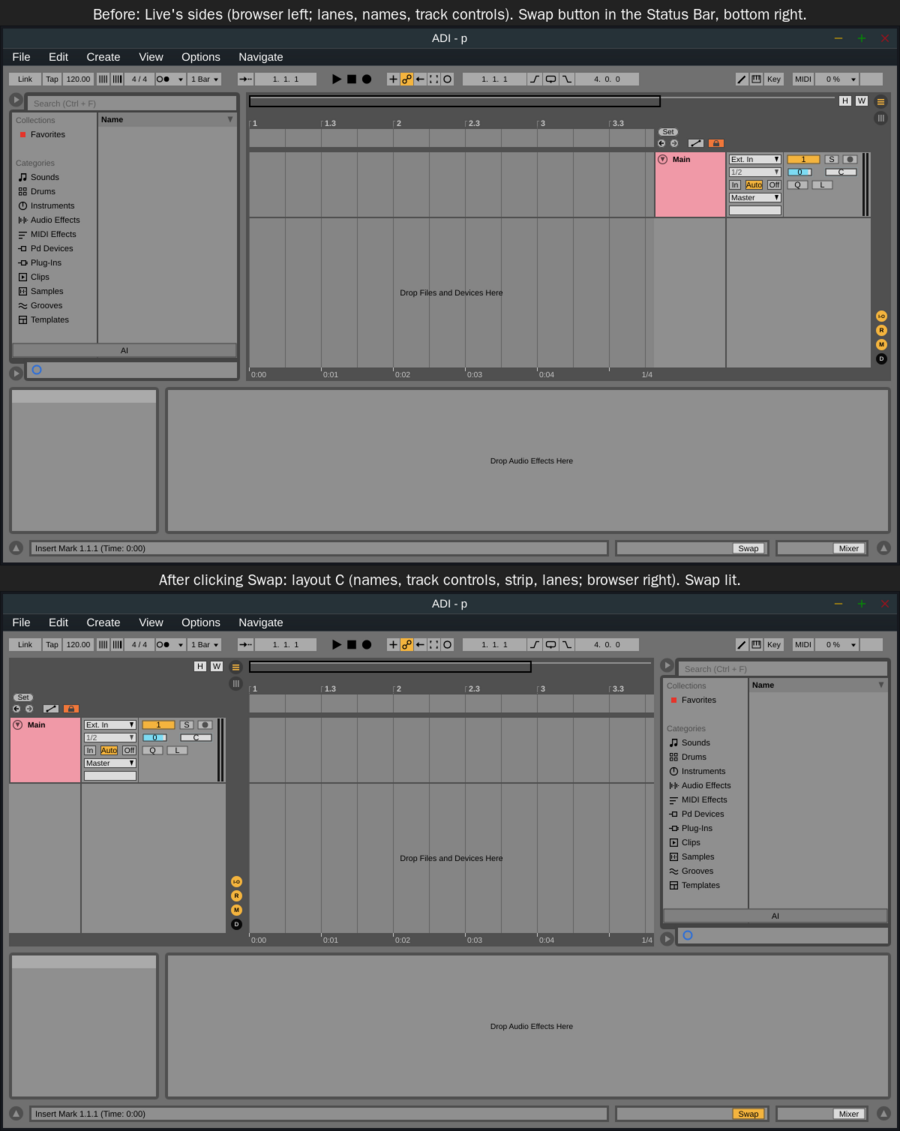
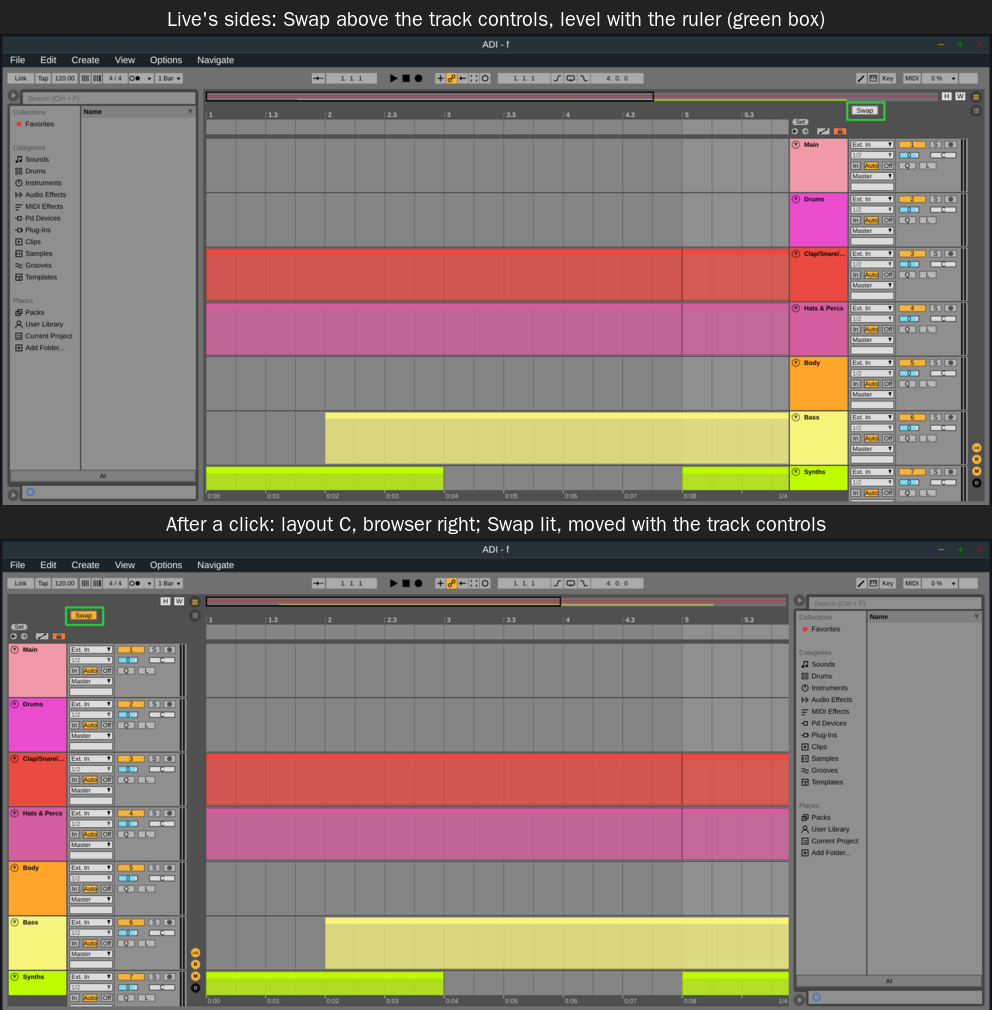
window: Swap moves to the band above the track controls
The director marked the empty band above the track controls, level with the
ruler, as the room for buttons such as the side swap (28 October 2026). The
button leaves the Status Bar, whose second field is where Live 12 puts the
Clip View toggle and its selector, and becomes the track controls' own: it
sits in their band and travels with them, lit while they are on the left.
The Mixer View has none.

It takes no keyboard focus; the View menu is its keyboard path. As a
focusable child at the panel's top it took the focus when a row holding it
was hidden on a scroll, and Next/Previous Neighbor stopped there: the
existing check caught it.

New check: the button lies in the band, below the Overview's row and above
the first row, inside the track controls, on either side. No golden moves:
the band's buttons and the Status Bar are masked as typography. The picture
of both states is replaced.

Claude-Session: https://claude.ai/code/session_013uiiLKvKvN8fsTi5qRHzxp

diff --git a/adi_daw/tests/test_ui_shell.cpp b/adi_daw/tests/test_ui_shell.cpp
@@ -416,24 +416,34 @@ int main(int argc, char **argv) {
         const auto at = a.arrangement.getPosition();
         const auto namesC = a.arrangement.headers.getBounds() + at;
         const auto lanesC = a.arrangement.canvas.getBounds() + at;
-        check(a.arrangement.namesFirst() && a.status.swapToggle.getToggleState() &&
+        check(a.arrangement.namesFirst() && a.mixer.swapToggle.getToggleState() &&
                   namesC.getRight() <= a.mixerArea().getX() &&
                   a.mixerArea().getRight() <= lanesC.getX() &&
                   lanesC.getRight() <= a.browserArea().getX() &&
                   a.arrangement.ruler.getX() + at.x == lanesC.getX(),
               "swapped: the names lead, then the track controls, then the lanes");
-        a.status.swapToggle.onClick();
+        // The director's place for it (2026-10-28): the empty band above the track controls,
+        // level with the ruler, travelling with them.
+        auto inBand = [&a] {
+            const auto r = a.mixer.swapToggle.getBounds() + a.mixer.getPosition();
+            return a.mixer.isVisible() && a.mixer.swapToggle.isVisible() && a.mixerArea().contains(r) &&
+                   r.getY() >= a.mixerArea().getY() + a.arrangement.overviewHeight() &&
+                   r.getBottom() <= a.mixerArea().getY() + a.arrangement.topHeight();
+        };
+        check(inBand() && a.mixerView.swapToggle.getParentComponent() == nullptr,
+              "Swap sits above the track controls, level with the ruler; the Mixer View has none");
+        a.mixer.swapToggle.onClick();
         a.frame();
         const auto atL = a.arrangement.getPosition();
         const auto namesL = a.arrangement.headers.getBounds() + atL;
         const auto lanesL = a.arrangement.canvas.getBounds() + atL;
-        check(!a.arrangement.namesFirst() && !a.status.swapToggle.getToggleState() &&
+        check(!a.arrangement.namesFirst() && !a.mixer.swapToggle.getToggleState() &&
                   a.state().panels.slots()[0].panel == Panel::Browser &&
                   a.browserArea().getRight() <= lanesL.getX() &&
                   lanesL.getRight() <= namesL.getX() &&
-                  namesL.getRight() <= a.mixerArea().getX(),
-              "the Status Bar's Swap puts Live's sides back: lanes, names, track controls");
-        a.status.swapToggle.onClick();
+                  namesL.getRight() <= a.mixerArea().getX() && inBand(),
+              "Swap puts Live's sides back: lanes, names, track controls; it moved with them");
+        a.mixer.swapToggle.onClick();
         a.frame();
         check(a.arrangement.namesFirst() && a.state().panels.slots()[0].panel == Panel::Mixer,
               "and swaps them again");

diff --git a/adi_daw/src/juce/ui_shell.cpp b/adi_daw/src/juce/ui_shell.cpp
@@ -359,12 +359,6 @@ StatusBar::StatusBar(AdiRootComponent &root) : root_(root) {
     mixerToggle.setTooltip("Shows or hides the Mixer. Ctrl/Cmd+Alt+M.");
     mixerToggle.setClickingTogglesState(false);
     mixerToggle.onClick = [this] { root_.command(AppCommands::ToggleMixerView); };
-    addAndMakeVisible(swapToggle);
-    swapToggle.setTitle("Swap Side Panels");
-    swapToggle.setTooltip("Swaps the browser and the track controls between the window's sides, for "
-                          "Bitwig and Cubase hands. Also in the View menu.");
-    swapToggle.setClickingTogglesState(false);
-    swapToggle.onClick = [this] { root_.command(AppCommands::SwapPanels); };
 }
 void StatusBar::resized() {
     // Live's Status Bar at 100 %: round corner buttons, the message field, a second
@@ -373,8 +367,6 @@ void StatusBar::resized() {
     infoToggle.setBounds(8, 9, 19, 19);
     detailToggle.setBounds(w - 27, 9, 19, 19);
     mixerToggle.setBounds(w - 86, 11, 44, 16);
-    // At the right of the second field, before the selected track's box.
-    swapToggle.setBounds(w - 220, 11, 44, 16);
 }
 void StatusBar::paint(juce::Graphics &g) {
     g.fillAll(look::frame);
@@ -683,7 +675,7 @@ void AdiRootComponent::resized() {
     mixerViewResizer.setBounds(mixerViewArea_.getX(), mixerViewArea_.getY() - 3,
                                mixerViewArea_.getWidth(), 6);
     status.mixerToggle.setToggleState(state_.mixerView, juce::dontSendNotification);
-    status.swapToggle.setToggleState(!browserLeft, juce::dontSendNotification);
+    mixer.swapToggle.setToggleState(!browserLeft, juce::dontSendNotification);
     arrangement.setBounds(centreX, top, centreW, mid - mixerViewArea_.getHeight());
     // The Overview runs from the lanes' left edge to Live's H and W buttons.
     const int overviewX = lanesX + ArrangementView::kLeftMargin;

diff --git a/adi_daw/src/juce/ui_mixer.cpp b/adi_daw/src/juce/ui_mixer.cpp
@@ -417,7 +417,20 @@ void MixerStrip::panMenu() {
     m.addItem(2, "Split Stereo Pan", false, false);
     m.showMenuAsync(juce::PopupMenu::Options{}.withTargetComponent(&pan));
 }
-MixerPanel::MixerPanel(AdiRootComponent &r, bool vertical) : root(r), vertical_(vertical) {}
+MixerPanel::MixerPanel(AdiRootComponent &r, bool vertical) : root(r), vertical_(vertical) {
+    if (vertical_)
+        return;
+    addAndMakeVisible(swapToggle);
+    swapToggle.setTitle("Swap Side Panels");
+    swapToggle.setTooltip("Swaps the browser and the track controls between the window's sides, for "
+                          "Bitwig and Cubase hands. Also in the View menu.");
+    swapToggle.setClickingTogglesState(false);
+    // A view command, reached from the keyboard through the View menu; it takes no focus, so a
+    // row hidden while it has the focus hands it to another row, never to this.
+    swapToggle.setWantsKeyboardFocus(false);
+    swapToggle.setMouseClickGrabsKeyboardFocus(false);
+    swapToggle.onClick = [this] { root.command(AppCommands::SwapPanels); };
+}
 bool MixerPanel::submit(const std::string &op, Payload payload, const char *label) {
     return root.submitEdit(op, std::move(payload), label);
 }
@@ -569,6 +582,10 @@ void MixerPanel::place() {
     for (std::size_t i = used; i < strips_.size(); ++i)
         if (!strips_[i]->dragging())
             strips_[i]->setVisible(false);
+    // In the ruler's band, below H and W; above any row scrolled partly into the band.
+    swapToggle.setBounds(6, root.arrangement.overviewHeight() + 6, 44, 16);
+    if (getIndexOfChildComponent(&swapToggle) != getNumChildComponents() - 1)
+        swapToggle.toFront(false);
 }
 void MixerPanel::frame(bool changed) noexcept {
     if (changed)

diff --git a/adi_daw/src/juce/ui_mixer.hpp b/adi_daw/src/juce/ui_mixer.hpp
@@ -112,6 +112,10 @@ class MixerPanel final : public juce::Component {
     // Auto Gain Stage, the one offline command (ADR-0195 d4, ADR-0203 d14): LUFS or RMS.
     std::function<bool(bool lufs)> autoGain;
     const std::vector<std::unique_ptr<MixerStrip>> &strips() const noexcept { return strips_; }
+    // ADI's addition (ADR-0080; the director, 28 October 2026): the side swap, in the band
+    // above the rows, so it travels with the track controls. Lit while they are on the left.
+    // The Mixer View has none.
+    juce::TextButton swapToggle{"Swap"};
 
   private:
     void place();

diff --git a/adi_daw/src/juce/ui_shell.hpp b/adi_daw/src/juce/ui_shell.hpp
@@ -127,9 +127,6 @@ class StatusBar final : public juce::Component {
     void paint(juce::Graphics &) override;
     void resized() override;
     juce::TextButton infoToggle{""}, detailToggle{""}, mixerToggle{"Mixer"};
-    // ADI's addition (ADR-0080; the director, 28 October 2026): the side swap, shown where the
-    // view toggles are, lit while the browser is on the right.
-    juce::TextButton swapToggle{"Swap"};
 
   private:
     AdiRootComponent &root_;

diff --git a/adi_daw/collab/window/master-reference-audit.md b/adi_daw/collab/window/master-reference-audit.md
@@ -24,7 +24,7 @@ MR § is the Master Reference's section.
 | Item | MR § | Window today |
 |---|---|---|
 | Live's single window: browser left, arrangement centre, track controls right, devices along the bottom, Info View bottom left, Status Bar, control bar on top | 1.1, 3 | Built |
-| Swap the browser and the track controls to the other side, instantly, for Bitwig and Cubase users | 1.1, 3.2 (ADR-0080) | Built (window/swap-panels): a Swap button in the Status Bar beside Mixer, lit while swapped, and View › "Swap side panels"; each panel keeps its own width. Swapped, the director's layout C (28 October): names, track controls, strip, lanes; the browser right |
+| Swap the browser and the track controls to the other side, instantly, for Bitwig and Cubase users | 1.1, 3.2 (ADR-0080) | Built (window/swap-panels): a Swap button in the band above the track controls, level with the ruler, travelling with them and lit while they are on the left (the director's green box, 28 October), and View › "Swap side panels"; each panel keeps its own width. Swapped, the director's layout C (28 October): names, track controls, strip, lanes; the browser right |
 | Hide one or both side panels to give the arrangement the whole width | 3.2 | Built (View › Hide/Show Browser, the track controls' toggle) |
 | The narrow-window rule: each panel keeps its minimum, a swap that cannot fit is refused with a message | 3.2 (ADR-0180 d4) | Built |
 | The mixer and the editors undock into their own windows, the same components reparented | 1.1, 3.2 (ADR-0063) | Partial: device panels and the analyser float in the floating host; the mixer and the editors do not undock |
@@ -177,7 +177,8 @@ MR § is the Master Reference's section.
 
 ## Questions for the director
 
-Ruled on 28 October 2026: 1, layout C (names, track controls, strip, lanes); 2, the Status Bar;
+Ruled on 28 October 2026: 1, layout C (names, track controls, strip, lanes); 2, the Status Bar, then
+moved the same day to the empty band above the track controls, which the director marked;
 3, yes, its picture first; 4, yes, the clip view and the note editor next.
 
 1. **The swap's track names.** After View › Swap side panels the track controls go left but the

diff --git a/adi_daw/collab/window/parity-7.2-shell.md b/adi_daw/collab/window/parity-7.2-shell.md
@@ -36,4 +36,4 @@ Status: **built** (in this PR, with a check in `tests/test_ui_shell.cpp`), **par
 | 22 | Toggle Full Screen Mode: F11 on Windows, Ctrl+Cmd+F on the Mac; the View menu's Full Screen | online §42.1 | The window fills the screen and back (`window/view-toggles`); a view whose window is not on the screen refuses and says why. Seen in the app under Xvfb on Linux | built |
 | 23 | Hide/Show Overview: Ctrl/Cmd+Alt+O, the View menu | online §42.1 | The Overview's row goes, the ruler and the lanes move up, and the track controls' rows stay level with them; kept per window in `ui_view` | built; measure what Live does with H and W when the Overview is hidden (ADI leaves them at the top right) |
 | 24 | Hide/Show In/Out: Ctrl/Cmd+Alt+I, the View menu | online §42.1 | The track controls lose their In/Out column and narrow by it, so the arrangement widens; the panel's stored width is kept for when it comes back; kept per window | built; the Mixer View shows no In/Out yet, so the key changes only the track controls there |
-| 25 | — (ADI addition) the side swap, for Bitwig and Cubase hands | ADR-0080; Master Reference 1.1, 3.2 | A Swap button in the Status Bar beside Mixer, lit while swapped, and View › Swap side panels (`window/swap-panels`). Swapped, the director's layout C (28 October 2026): the track names, the track controls, the strip, then the lanes; the browser on the right; each panel keeps its width; a swap that cannot fit is refused in the Status Bar | built |
+| 25 | — (ADI addition) the side swap, for Bitwig and Cubase hands | ADR-0080; Master Reference 1.1, 3.2 | A Swap button in the band above the track controls, level with the ruler, travelling with them and lit while they are on the left, and View › Swap side panels (`window/swap-panels`). Swapped, the director's layout C (28 October 2026): the track names, the track controls, the strip, then the lanes; the browser on the right; each panel keeps its width; a swap that cannot fit is refused in the Status Bar | built |

diff --git a/adi_daw/docs/UI-ARCHITECTURE.md b/adi_daw/docs/UI-ARCHITECTURE.md
@@ -98,8 +98,10 @@ controls, the strip, then the lanes, as Bitwig and Cubase have them, so a
 track's name stays beside its controls. The arrangement leaves a gap between its
 names and its lanes and the root puts the track controls in it
 (`ArrangementView::setNamesFirst`). The swap is shown, not hidden (ADR-0203 d2):
-a Swap button in the Status Bar beside Mixer, lit while swapped, as well as
-View › Swap side panels.
+a Swap button in the empty band above the track controls, level with the
+ruler, where the director marked the room for such buttons; it travels with
+the controls and is lit while they are on the left. It is also in the View menu.
+It takes no keyboard focus: the View menu is its keyboard path.
 
 ### The device strip's height (ADR-0184)
 
